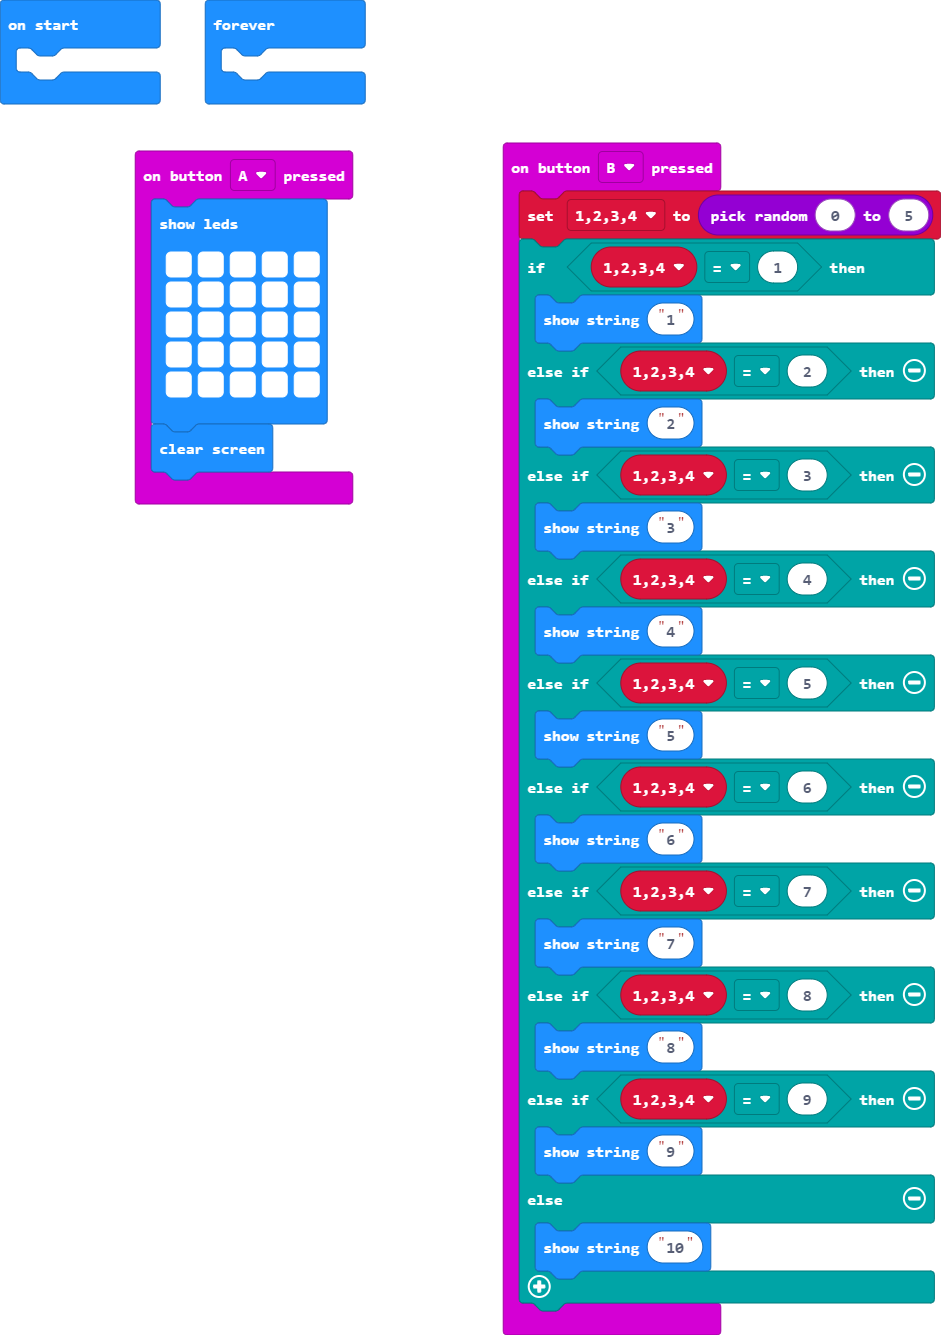
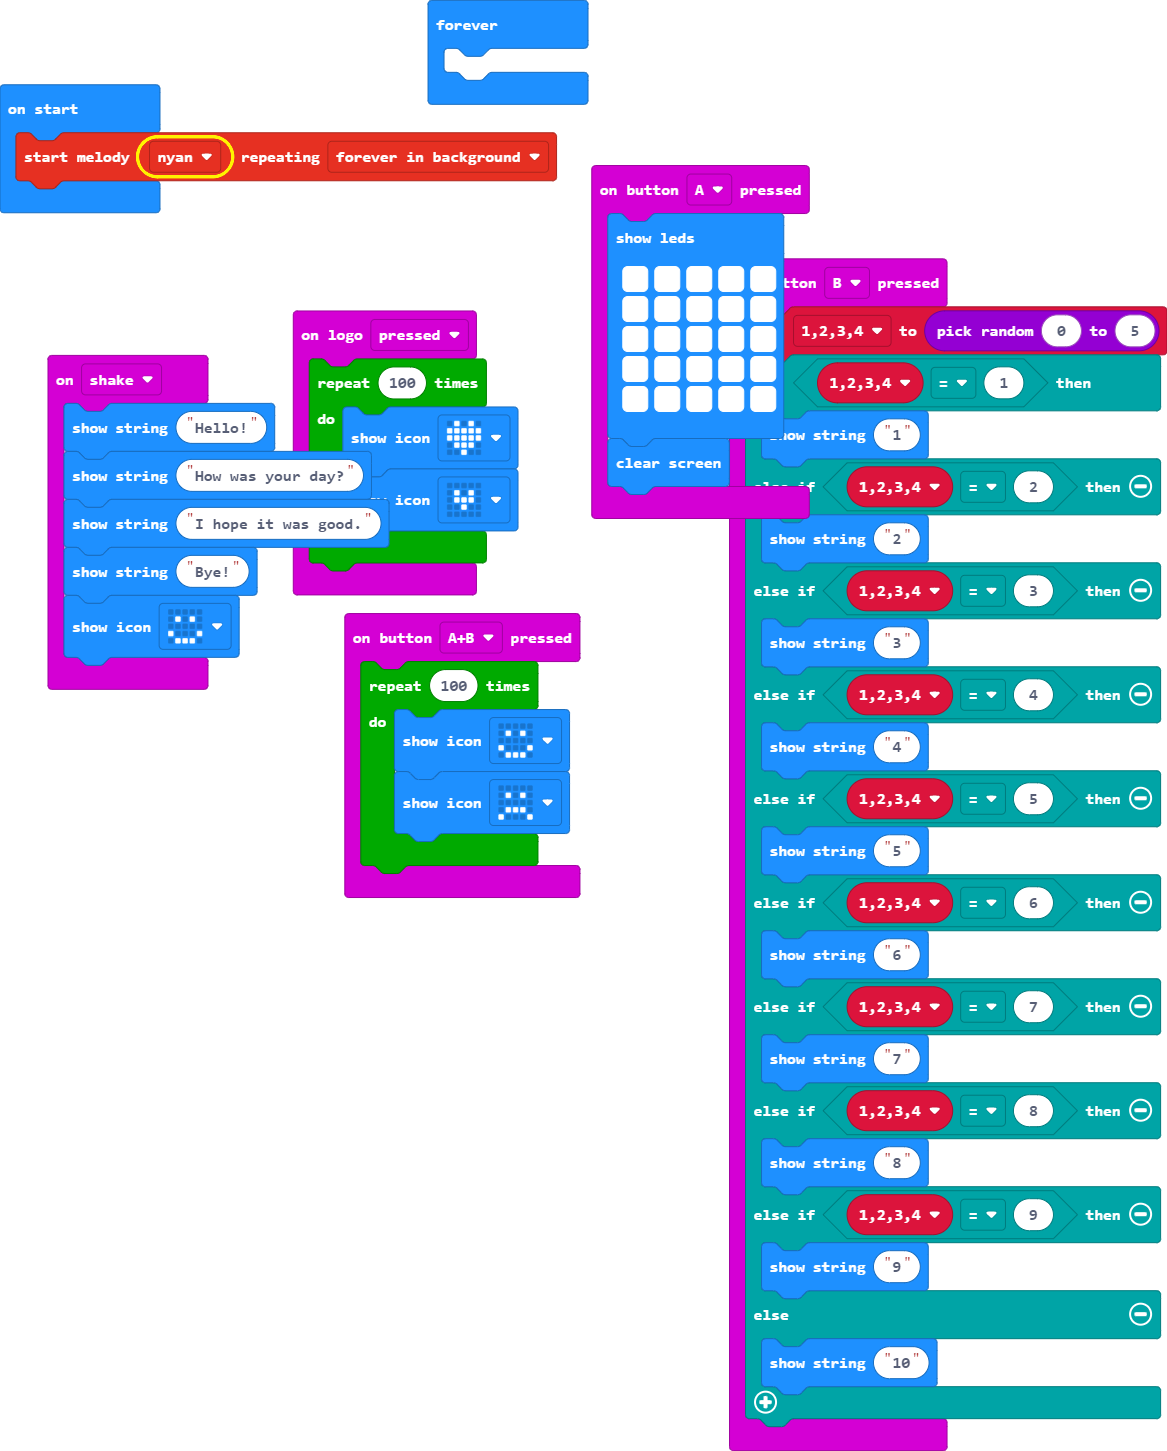
Update main.blocks, main.ts

diff --git a/main.ts b/main.ts
@@ -1,4 +1,3 @@
-let _1234 = 0
 input.onButtonPressed(Button.A, function () {
     basic.showLeds(`
         # # # # #
@@ -8,6 +7,12 @@ input.onButtonPressed(Button.A, function () {
         # # # # #
         `)
     basic.clearScreen()
+})
+input.onButtonPressed(Button.AB, function () {
+    for (let index = 0; index < 100; index++) {
+        basic.showIcon(IconNames.Happy)
+        basic.showIcon(IconNames.Sad)
+    }
 })
 input.onButtonPressed(Button.B, function () {
     _1234 = randint(0, 5)
@@ -33,6 +38,21 @@ input.onButtonPressed(Button.B, function () {
         basic.showString("10")
     }
 })
+input.onGesture(Gesture.Shake, function () {
+    basic.showString("Hello!")
+    basic.showString("How was your day?")
+    basic.showString("I hope it was good.")
+    basic.showString("Bye!")
+    basic.showIcon(IconNames.Happy)
+})
+input.onLogoEvent(TouchButtonEvent.Pressed, function () {
+    for (let index = 0; index < 100; index++) {
+        basic.showIcon(IconNames.Heart)
+        basic.showIcon(IconNames.SmallHeart)
+    }
+})
+let _1234 = 0
+music.startMelody(music.builtInMelody(Melodies.Nyan), MelodyOptions.ForeverInBackground)
 basic.forever(function () {
 	
 })
